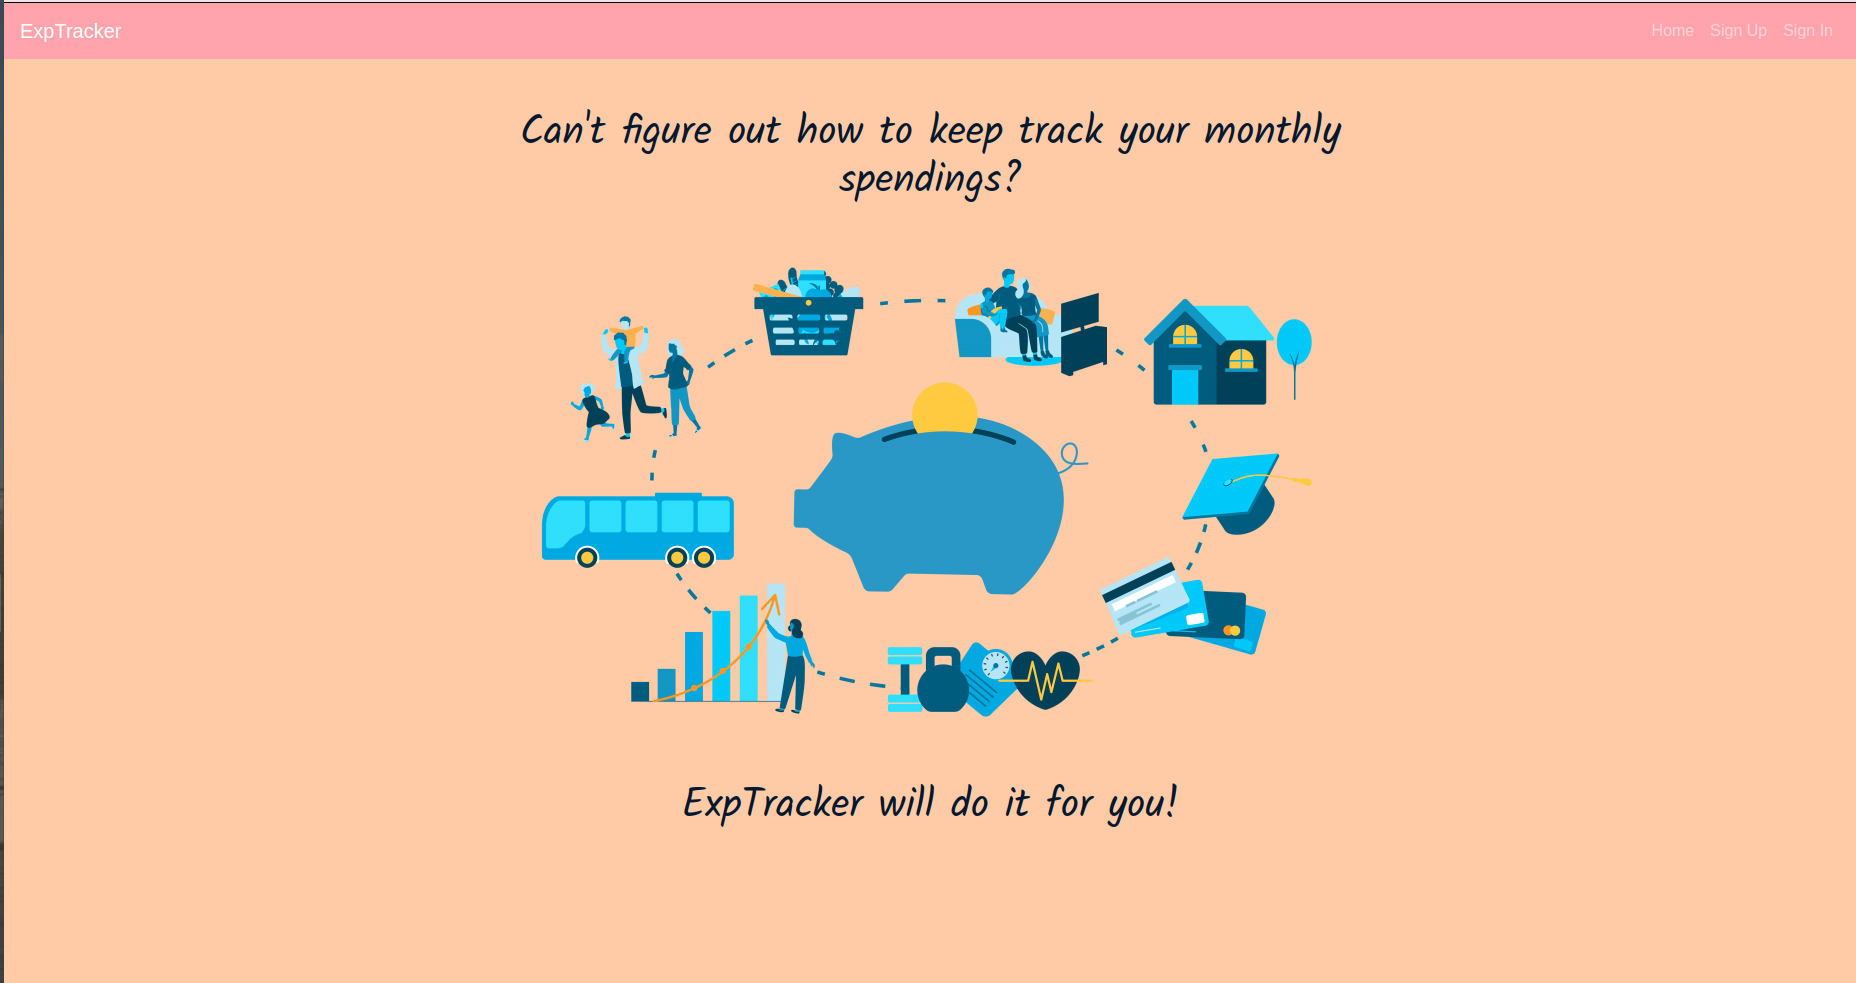
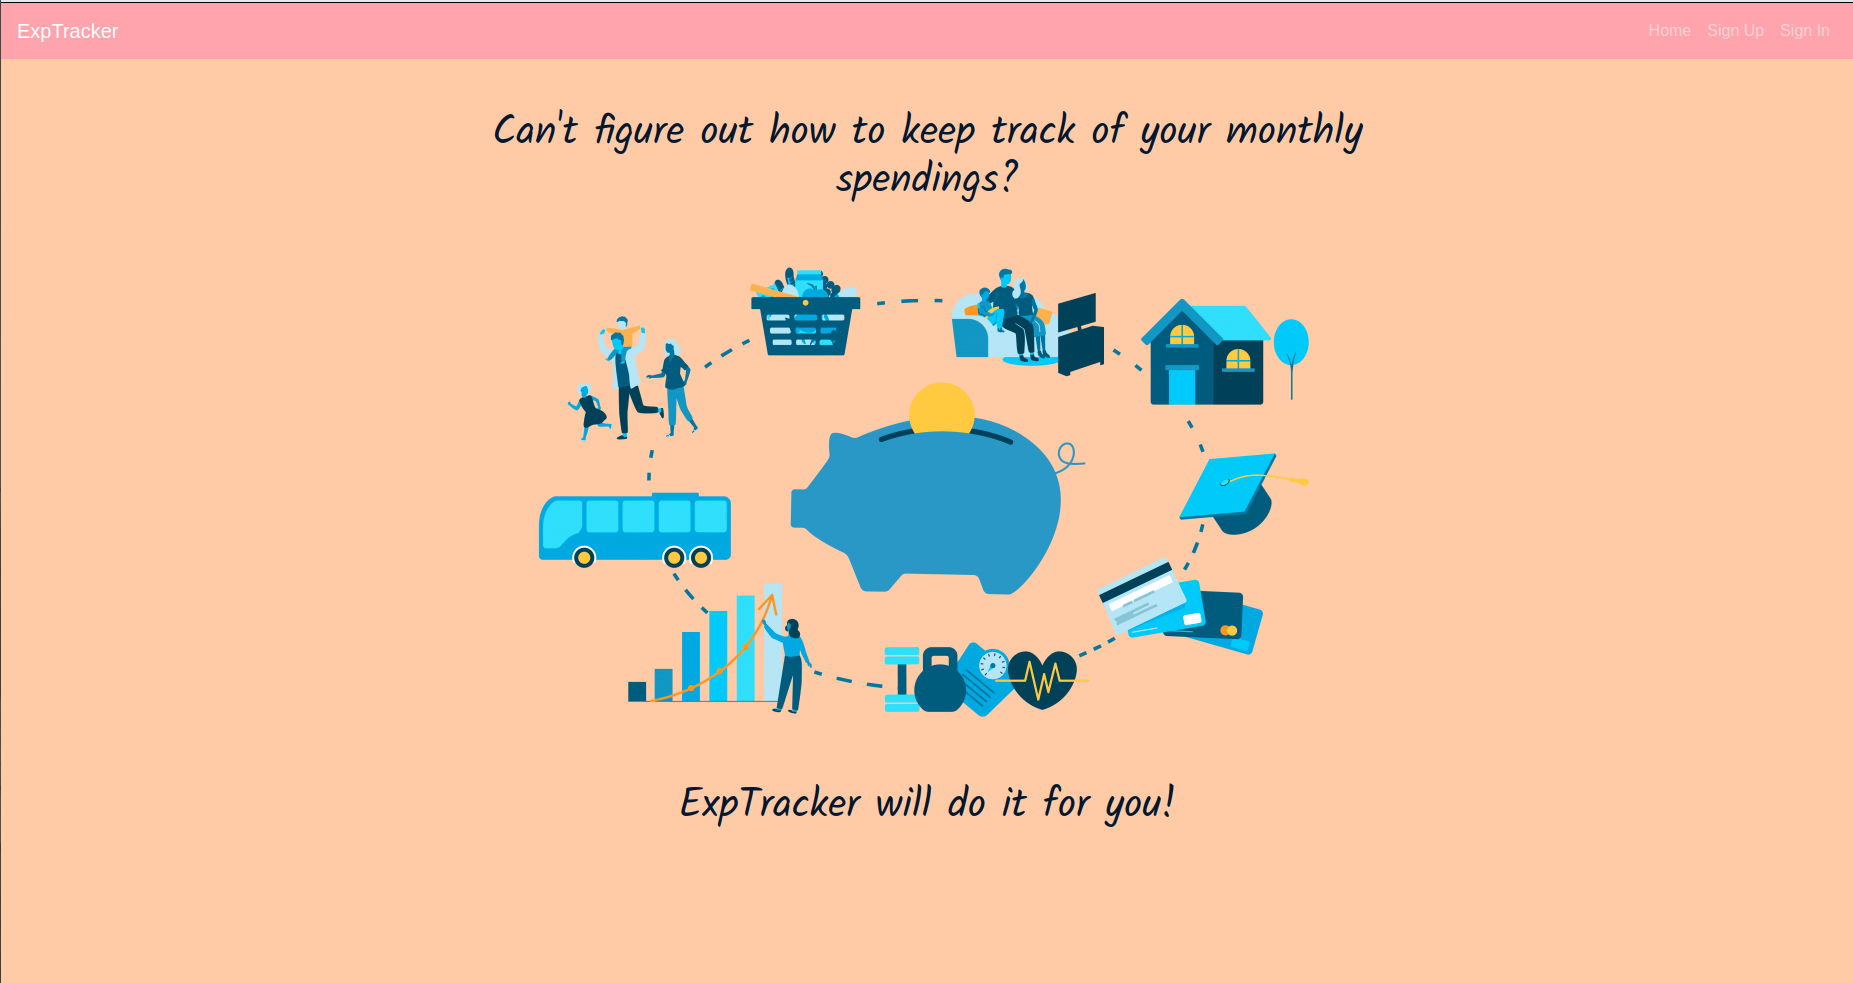
Fixed spelling mistake on main page

diff --git a/src/components/Home/Home.js b/src/components/Home/Home.js
@@ -3,7 +3,7 @@ import React, { Fragment } from 'react'
 const Home = props => {
   return (
     <Fragment>
-      <h1>{'Can\'t figure out how to keep track your monthly spendings?'}</h1>
+      <h1>{'Can\'t figure out how to keep track of your monthly spendings?'}</h1>
       <div className='home-page-img'>
         <img src={ require('./Home_page.png') } />
       </div>
